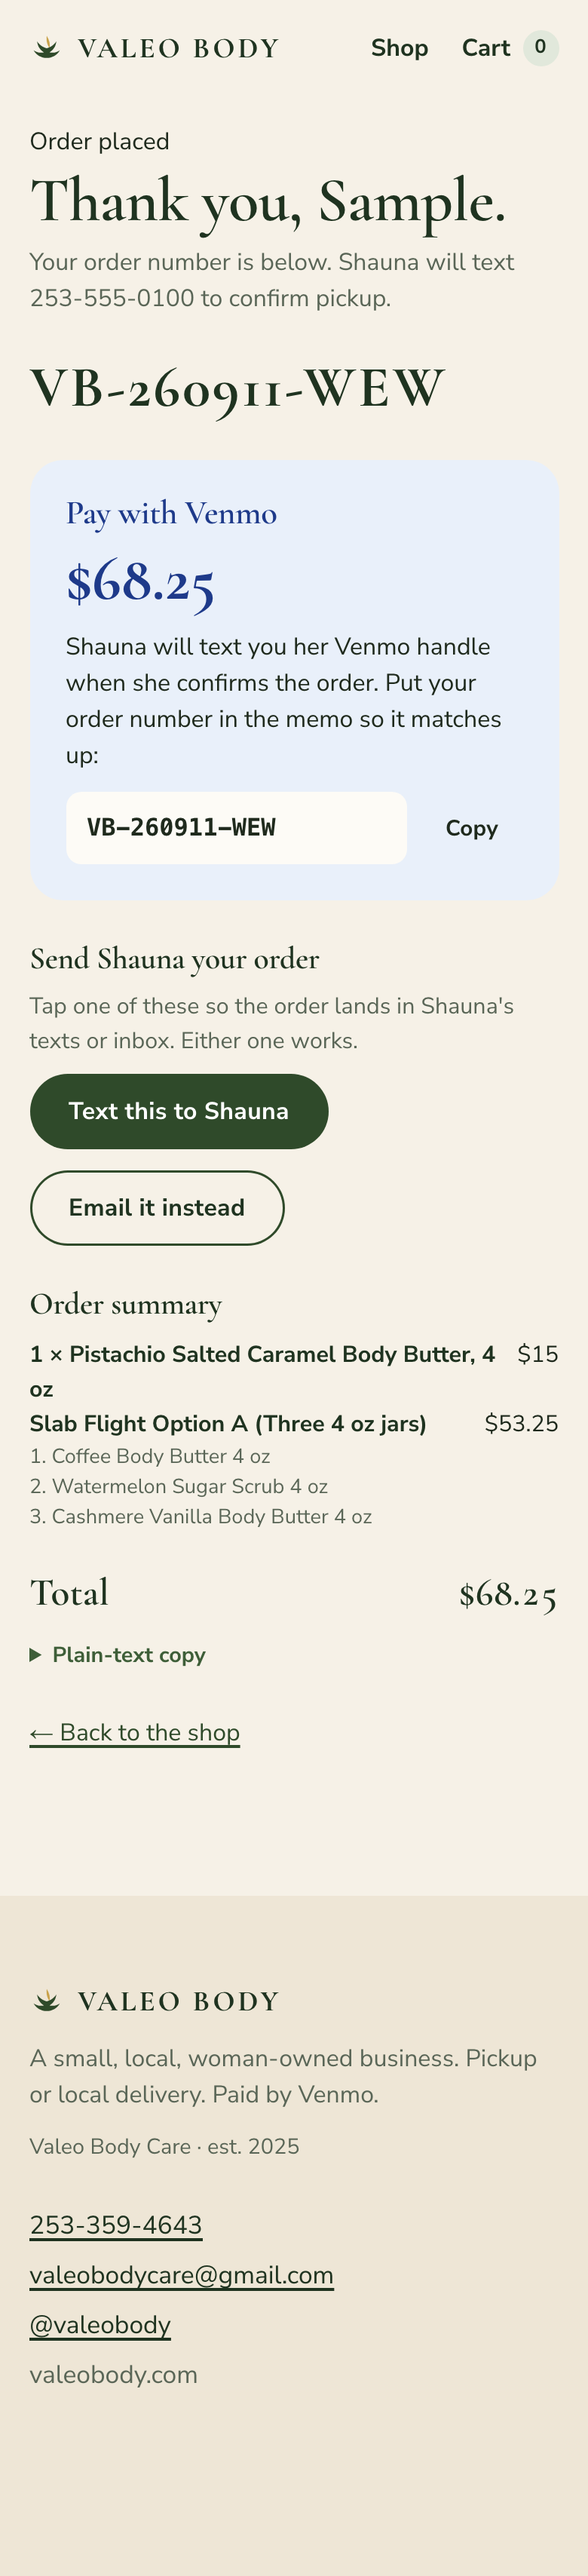
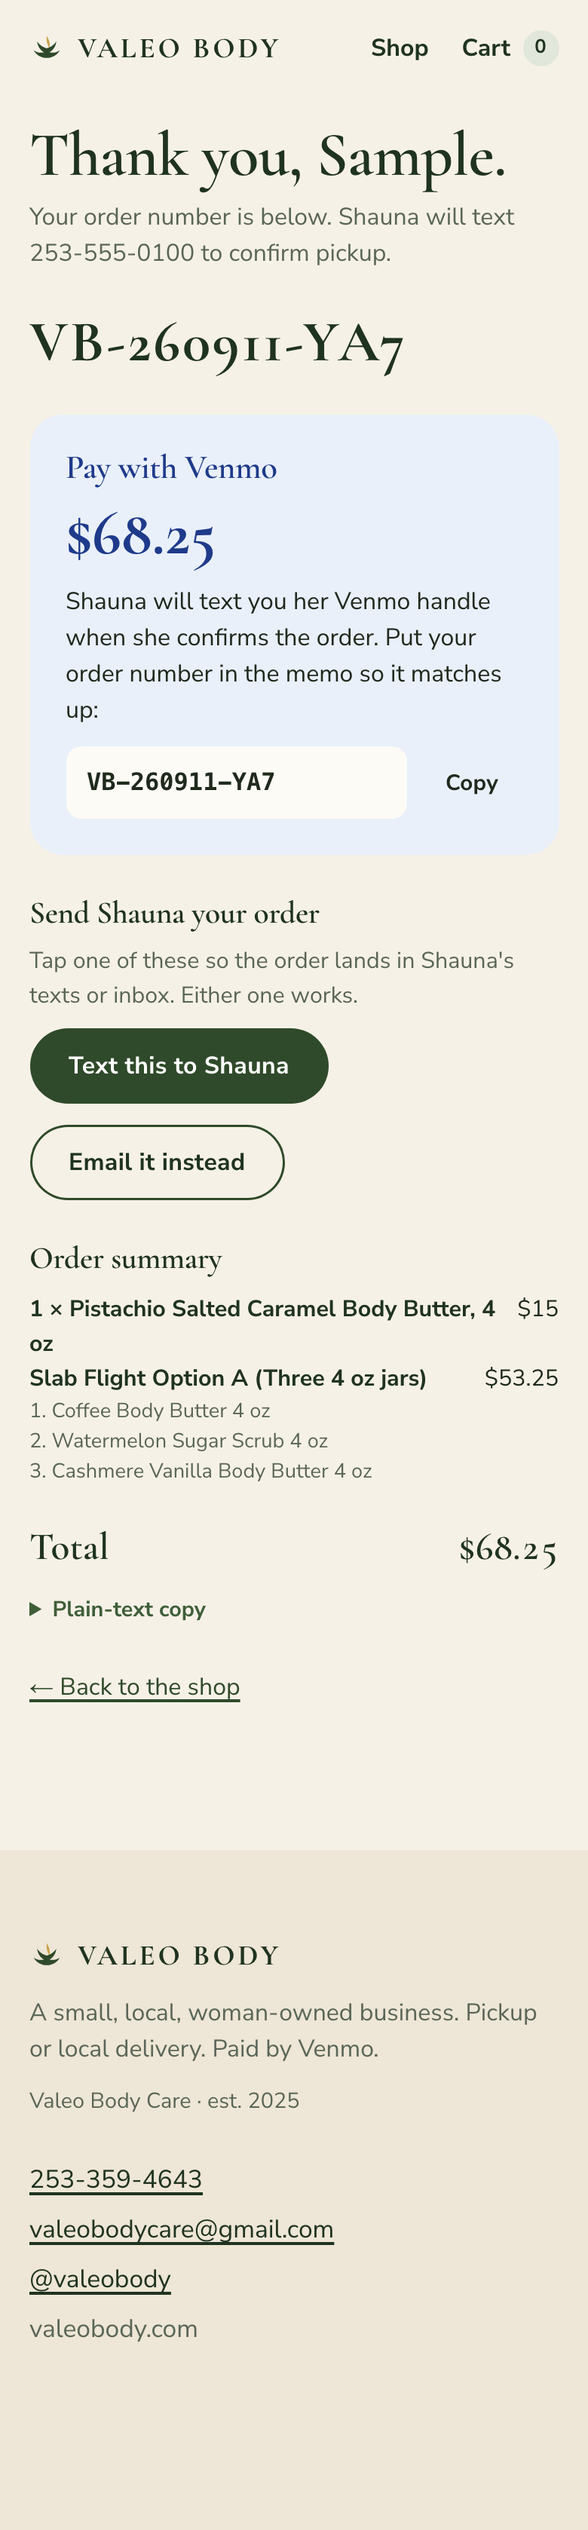
v3: drop the last kicker (confirmation page)

diff --git a/src/ui/checkout.ts b/src/ui/checkout.ts
@@ -86,7 +86,7 @@ function renderConfirmation(root: HTMLElement, o: Order, sent: { ok: boolean; re
   const handle = catalog.business.venmo ? `@${catalog.business.venmo.replace(/^@/, '')}` : '';
   root.innerHTML = `
     <div class="confirm" style="grid-column:1/-1;max-width:720px">
-      <div><span class="eyebrow">Order placed</span><h1 style="margin-top:6px">Thank you, ${escapeHtml(o.customer.name.split(' ')[0])}.</h1>
+      <div><h1>Thank you, ${escapeHtml(o.customer.name.split(' ')[0])}.</h1>
         <p class="muted" style="margin-top:8px">Your order number is below. Shauna will text ${escapeHtml(o.customer.phone)} to confirm ${o.customer.fulfillment === 'pickup' ? 'pickup' : 'delivery'}.</p></div>
       <div class="ordno" id="order-number" aria-label="Order number">${o.number}</div>
 
